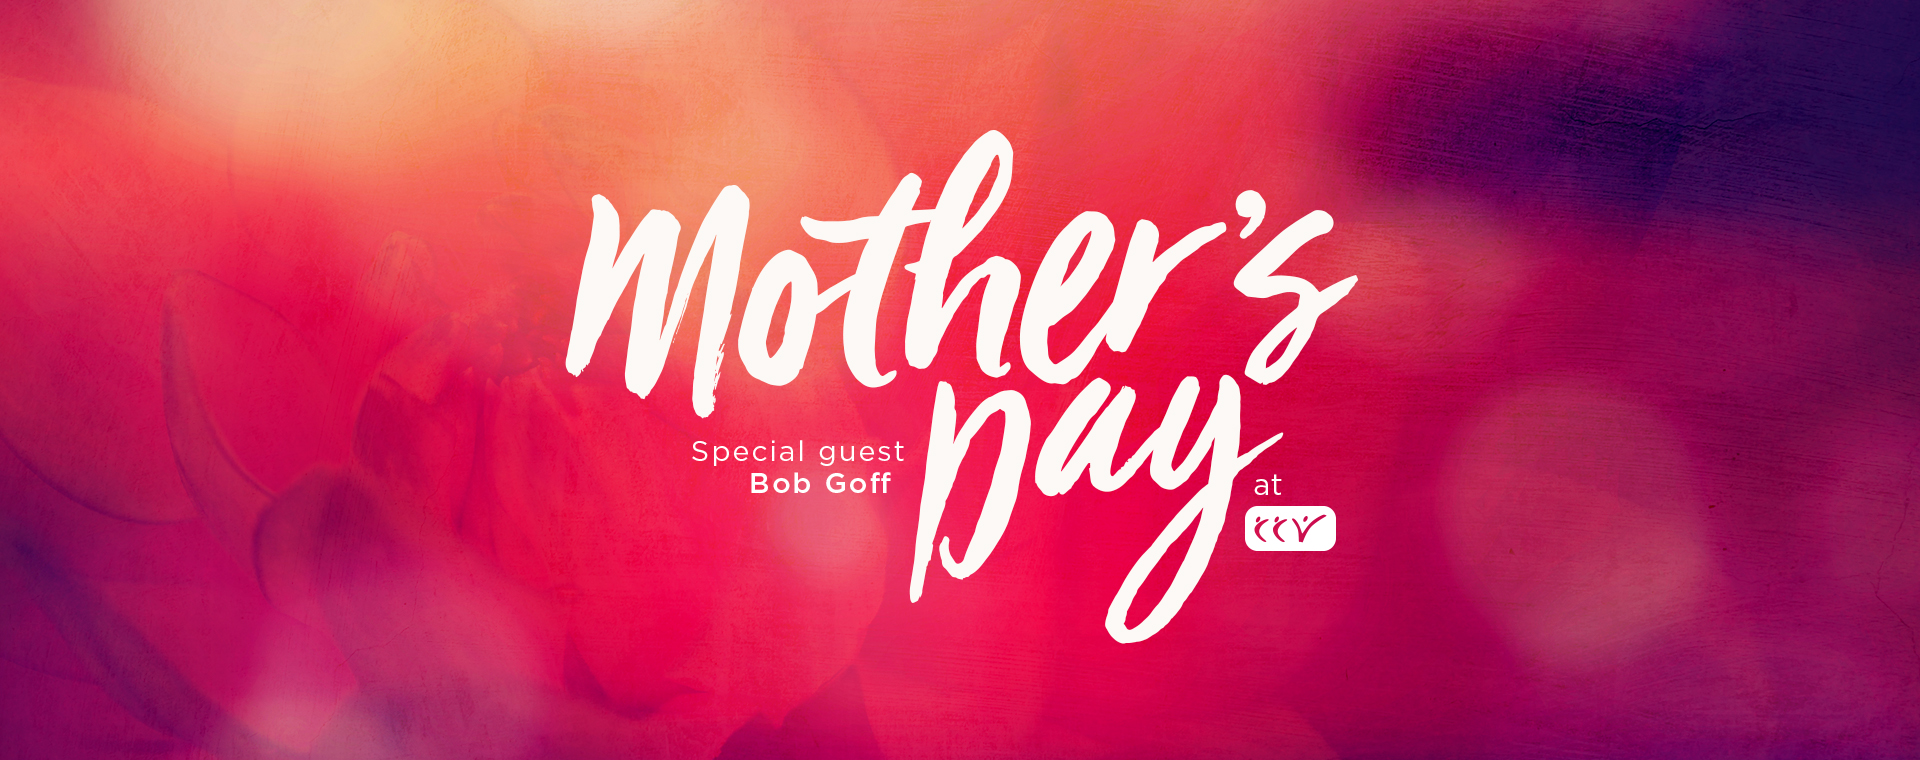
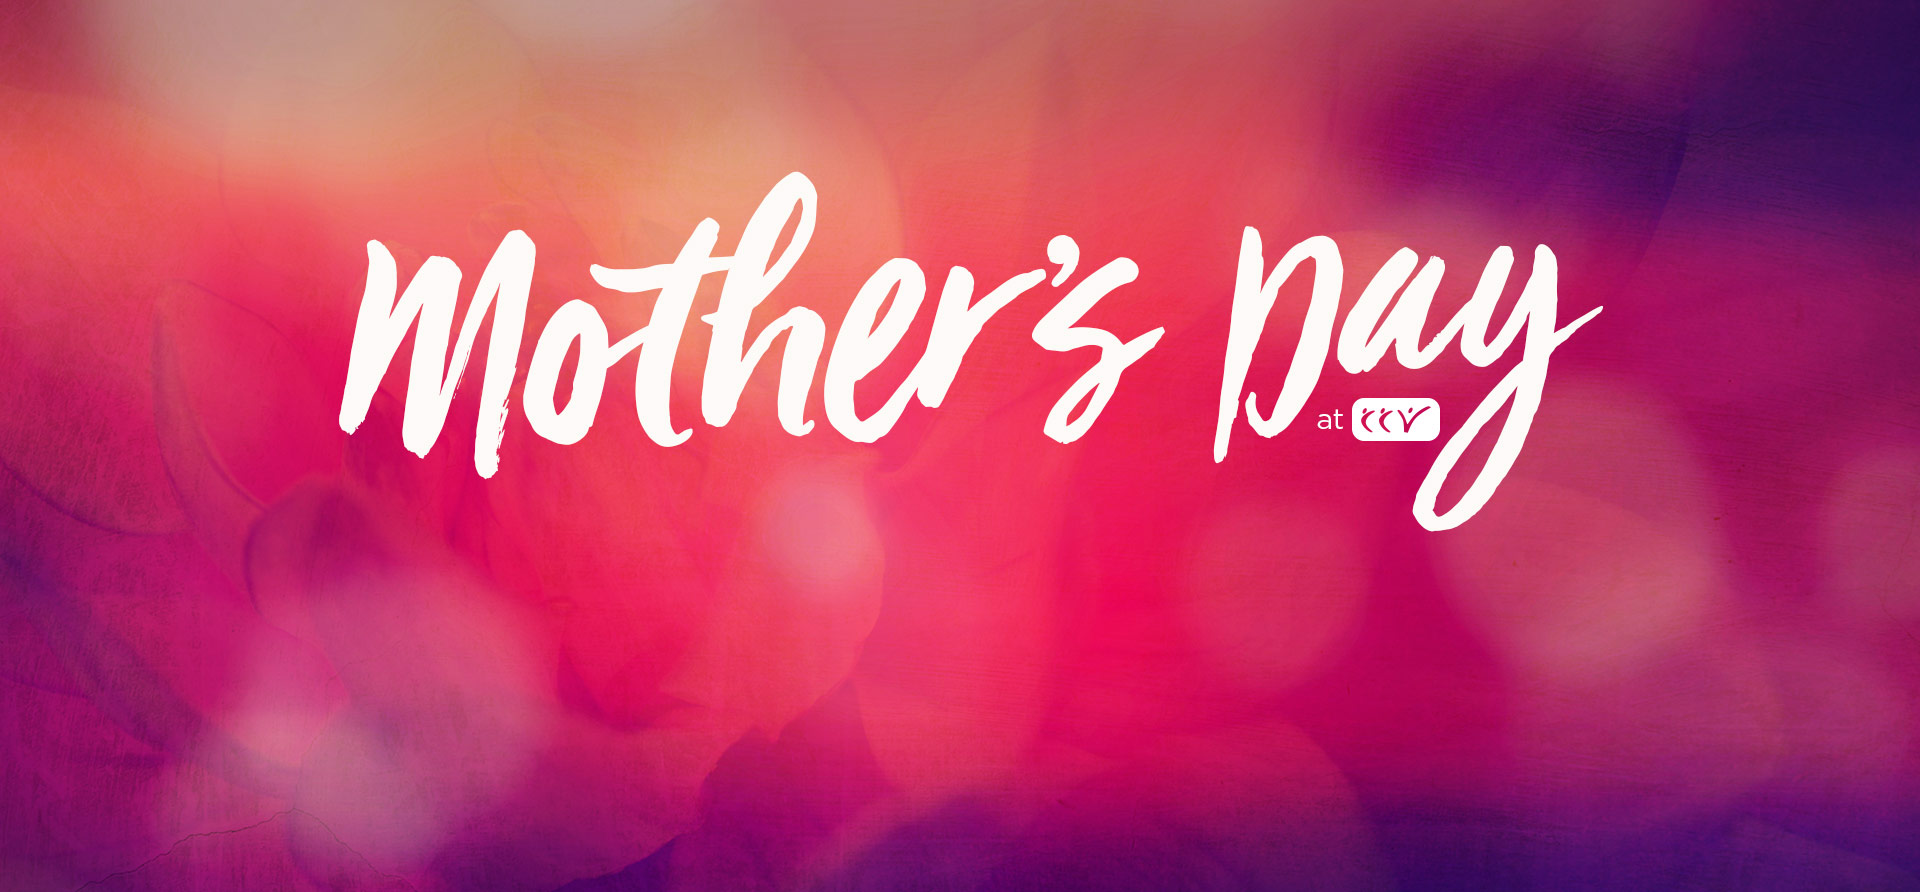
Updated Assets. Updated CSS file.
Former-commit-id: 6a4d3b09d6f039e15a03ff21947caeda09c9913c

diff --git a/RockWeb/Themes/church_ccv_External_v8/Styles/pages/stand-alone/2019/mothers-day.css b/RockWeb/Themes/church_ccv_External_v8/Styles/pages/stand-alone/2019/mothers-day.css
@@ -1,9 +1,7 @@
 .page-background {
     background-image: url("/Themes/church_ccv_External_v8/Assets/Images/stand-alone/2019/hero-mothers-day.jpg") !important;
-    margin: auto;
-    background-repeat: no-repeat;
-    background-attachment: unset;
-    background-position: center top;
+    background-attachment: scroll;
+    background-size: contain;
 }
 
 #subnavbar-bg {
@@ -11,11 +9,12 @@
 }
 
 .main-feature {
-    padding-top: 550px;
+    height: 820px;
+    padding-top: 480px;
 }
 
 #zone-feature {
-    margin: 0 auto;
+    margin: 0 25%;
 }
 
 /* Mobile Background Image */
@@ -25,9 +24,13 @@
     }
 
     .main-feature {
-        height: unset !important;
+        height: 400px !important;
         padding-top: 220px !important;
     }
+
+    #zone-feature {
+        margin: 0 5%;
+    }    
 }
 
 /* Section Background Colors */
@@ -96,6 +99,10 @@
     .title-button {
         margin: 10px 20px;
     }
+
+    .title {
+        padding: 0;
+    }    
 }
 
 @media screen and (max-width: 500px) {
@@ -154,6 +161,131 @@
 
 /* End Share Section */
 
+ /* Share Section */
+ .share-modal-header h4 {
+    font-family: akrobat;
+    padding: 0;
+    color: rgb(85, 85, 85);
+    font-size: 20px;
+    font-weight: 300;
+}
+
+/* Modals */
+.share-modal {
+    display: none; 
+    position: fixed;
+    z-index: 1; 
+    left: 0;
+    top: 0;
+    width: 100%; 
+    height: 100%; 
+    overflow: auto; 
+    background-color: rgb(0,0,0); 
+    background-color: rgba(0,0,0,0.4); 
+    -webkit-animation-name: fadeIn; 
+    -webkit-animation-duration: 0.4s;
+    animation-name: fadeIn;
+    animation-duration: 0.4s;
+}
+
+/* Share Modal Content */
+.share-modal-content {
+    position: fixed;
+    background-color: #fefefe;
+    width: 100%;
+    -webkit-animation-name: slideIn;
+    -webkit-animation-duration: 0.4s;
+    animation-name: slideIn;
+    animation-duration: 0.4s;
+    padding: 100px 0;
+    text-align: center;
+}
+
+.share-modal-header {
+    padding: 9px 16px;
+    background-color: #FFFFFF;
+    color: white;
+}
+
+.share-modal-body {
+    display: flex;
+    justify-content: space-evenly;
+    padding-top: 30px;
+    margin: 0 20%;
+}
+
+.share-modal-body img {
+    max-width: 300px;
+}
+
+.share-sms, .share-email, .share-facebook, .share-twitter {
+    font-size: 32px;
+}
+
+.content {
+    width: 100%;
+}
+
+.content-item {
+    display: flex;
+    width: 80%;
+    justify-content: space-between;
+}
+
+/* Add Animation */
+@-webkit-keyframes slideIn {
+    from {bottom: -300px; opacity: 0} 
+    to {bottom: 0; opacity: 1}
+}
+
+@keyframes slideIn {
+    from {bottom: -300px; opacity: 0}
+    to {bottom: 0; opacity: 1}
+}
+
+@-webkit-keyframes fadeIn {
+    from {opacity: 0} 
+    to {opacity: 1}
+}
+
+@keyframes fadeIn {
+    from {opacity: 0} 
+    to {opacity: 1}
+}
+
+/* End Share Section */
+
+/* Tablet Styling */
+@media screen and (max-width: 760px){
+    .share-modal-body {
+        display: flex;
+        position: unset;
+        justify-content: space-around;
+        padding-top: 30px;
+        margin: unset;
+        width: 100%;
+        height: 200px;
+    }
+
+    .share-modal-body img {
+        max-width: 100%;
+    }
+
+    .crt-grid-post .crt-grid-post-image {
+        z-index: -1 !important;
+    }
+
+    .share-modal-content {
+        padding: unset;
+    }
+
+    .content-item {
+        display: flex;
+        flex-direction: column;
+        width: 100%;
+    }
+}
+
  /* Overrides */
  h2, h3 {
     color: #b91f72;
@@ -173,8 +305,8 @@ a:focus {
 } 
 
 .btn-primary:hover, .btn-primary:active, .btn-primary:focus {
-   background-color: #0e3757;
-   border-color: #0e3757;
+   background-color: #bbbbbb;
+   border-color: #bbbbbb;
    color: white;
    border-radius: 5px;
 } 
